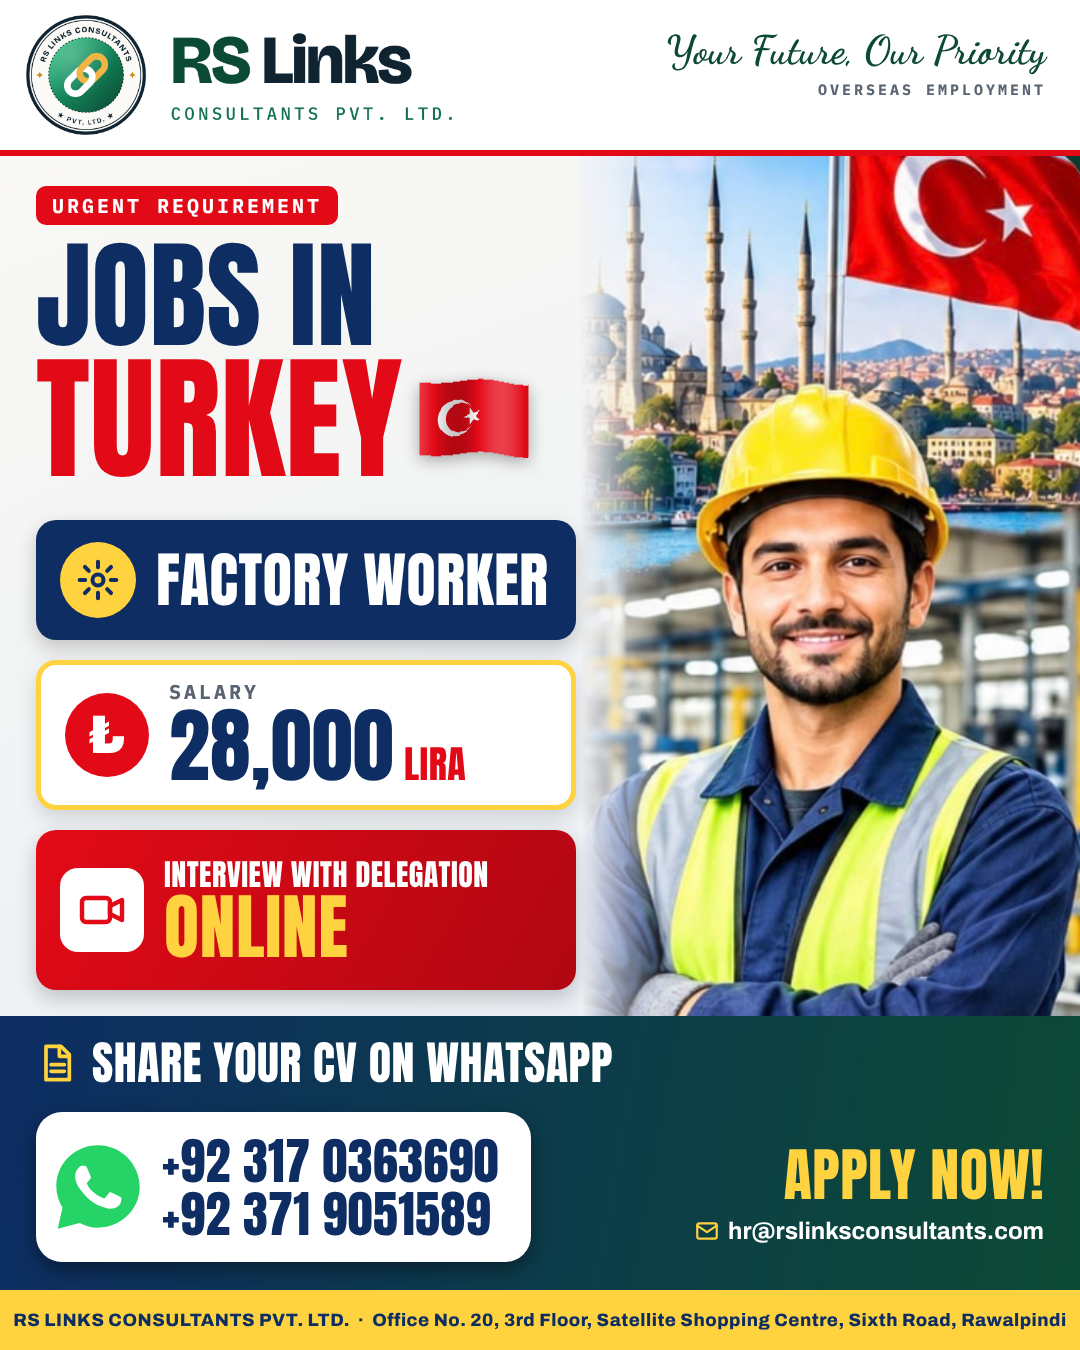
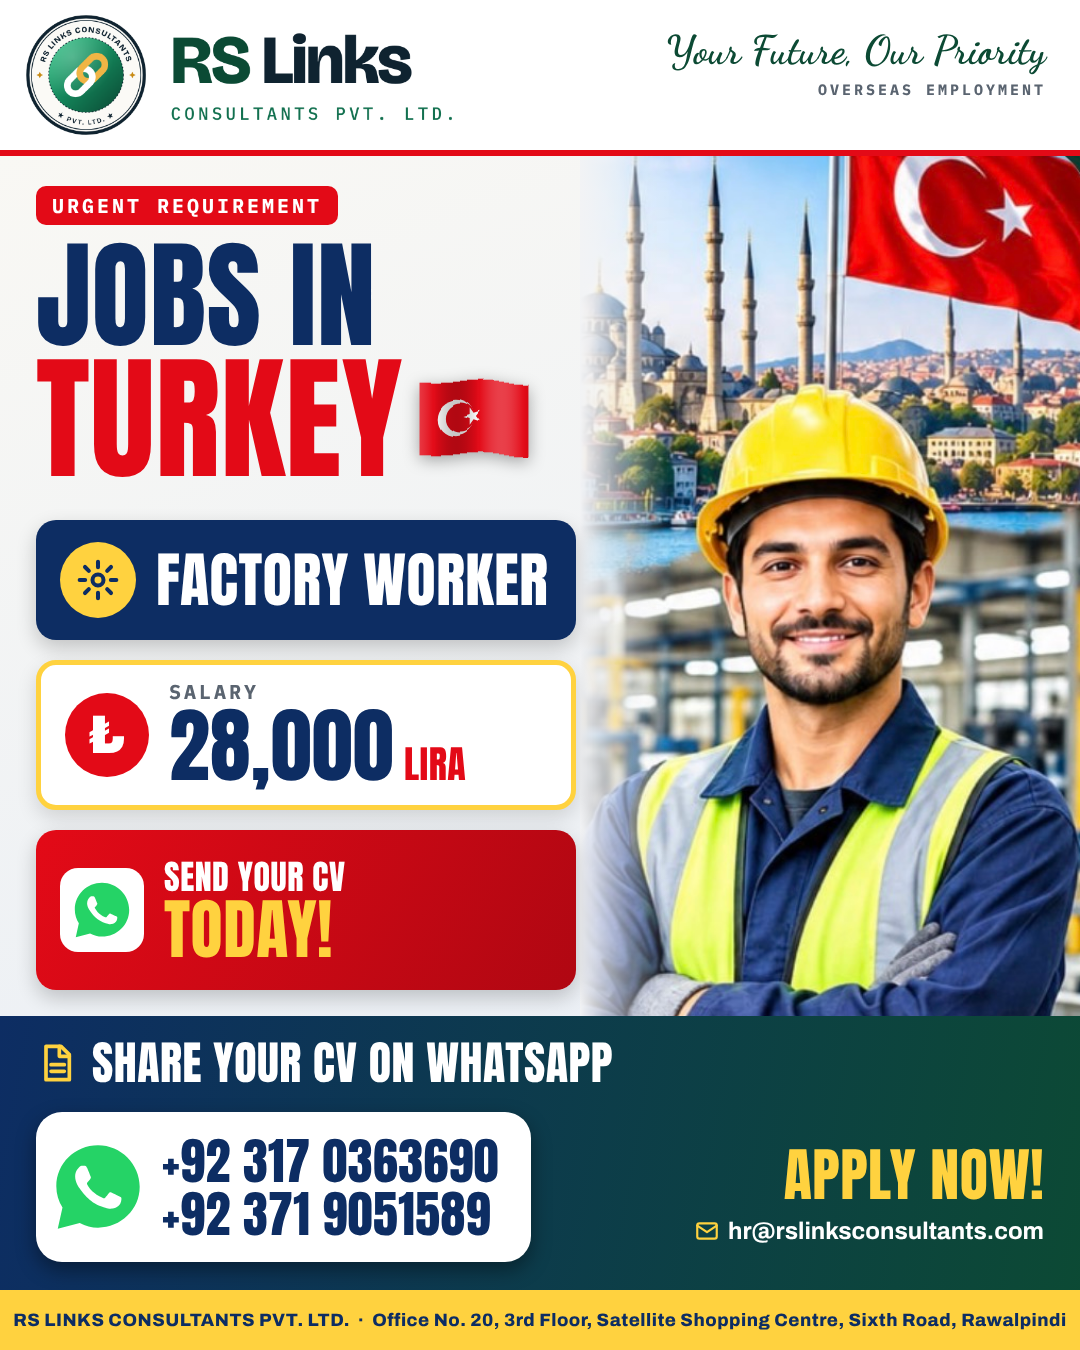
Drivers ad: keep noon branding on trucks; Turkey ad: remove interview card
Claude-Session: https://claude.ai/code/session_01YJ5ofgU8QCiWTsYR9pvXG4

Changed region(s): [[0.1528, 0.6222, 0.4583, 0.7156], [0.0611, 0.6533, 0.1222, 0.7156]]

diff --git a/src/turkey_factory.py b/src/turkey_factory.py
@@ -1,6 +1,5 @@
 """Turkey factory-worker ad (2026-10-14). Converts another agency's ad; the photo is kept at the
-user's explicit request ("picture same"). Interview dates (21-23 Sep 2026) are already past, so they
-are replaced by 'online interview with delegation - share your CV'."""
+user's explicit request ("picture same"). Interview info removed entirely (user request)."""
 from common import C, PHOTOS, WHATSAPP, font_css, flag, icon, logo_img, page, render, whatsapp_icon
 
 RED, NAVY, GOLD = "#E30A17", "#0D2D63", "#FFD23F"
@@ -41,9 +40,9 @@ def build():
   <div style='display:flex;align-items:baseline;gap:10px'><span class='num' style='font-size:82px;color:{NAVY};line-height:1'>28,000</span><span class='anton' style='font-size:38px;color:{RED}'>LIRA</span></div></div></div>
 
 <div class='abs' style='top:830px;left:36px;width:540px;height:160px;background:linear-gradient(120deg,{RED},#B00712);border-radius:20px;display:flex;align-items:center;gap:20px;padding:0 24px;box-sizing:border-box;box-shadow:0 8px 20px #0003'>
- <div style='width:84px;height:84px;border-radius:18px;background:#fff;display:flex;align-items:center;justify-content:center;flex:none'>{icon('video', 48, RED, 2.2)}</div>
- <div><div class='anton' style='font-size:30px;color:#fff;line-height:1.1'>INTERVIEW WITH DELEGATION</div>
-  <div class='anton' style='font-size:72px;color:{GOLD};line-height:1'>ONLINE</div></div></div>
+ <div style='width:84px;height:84px;border-radius:18px;background:#fff;display:flex;align-items:center;justify-content:center;flex:none'>{whatsapp_icon(60)}</div>
+ <div><div class='anton' style='font-size:34px;color:#fff;line-height:1.1'>SEND YOUR CV</div>
+  <div class='anton' style='font-size:66px;color:{GOLD};line-height:1'>TODAY!</div></div></div></div>
 
 <div class='abs' style='top:1016px;left:0;width:1080px;height:334px;background:linear-gradient(100deg,{NAVY},{C['green']})'></div>
 <div class='abs' style='top:1040px;left:36px;width:1008px;display:flex;align-items:center;gap:16px'>
@@ -52,9 +51,9 @@ def build():
  {whatsapp_icon(92)}<div>{nums}</div></div>
 <div class='abs' style='top:1146px;right:36px;width:420px;text-align:right'>
  <div class='anton' style='font-size:58px;color:{GOLD};line-height:1'>APPLY NOW!</div>
- <div style='display:flex;align-items:center;justify-content:flex-end;gap:8px;margin-top:14px'>{icon('mail', 26, GOLD, 2)}<span style='font-size:24px;font-weight:700;color:#fff'>{EMAIL}</span></div></div>
+ <div style='display:flex;align-items:center;justify-content:flex-end;gap:8px;margin-top:14px'>{icon('mail', 26, GOLD, 2)}<span style='font-family:Archivo;font-size:24px;font-weight:700;color:#fff'>{EMAIL}</span></div></div>
 <div class='abs' style='top:1290px;left:0;width:1080px;height:60px;background:{GOLD};display:flex;align-items:center;justify-content:center'>
- <span style='font-size:18px;font-weight:800;color:{NAVY};letter-spacing:.5px;white-space:nowrap'>RS LINKS CONSULTANTS PVT. LTD. &nbsp;·&nbsp; Office No. 20, 3rd Floor, Satellite Shopping Centre, Sixth Road, Rawalpindi</span></div>
+ <span style='font-family:Archivo;font-size:18px;font-weight:800;color:{NAVY};letter-spacing:.5px;white-space:nowrap'>RS LINKS CONSULTANTS PVT. LTD. &nbsp;·&nbsp; Office No. 20, 3rd Floor, Satellite Shopping Centre, Sixth Road, Rawalpindi</span></div>
 """
     return page(body, ".canvas{font-family:'Archivo',sans-serif;background:#F9F8F4}.num{font-family:'Anton',sans-serif;letter-spacing:.5px}")
 
